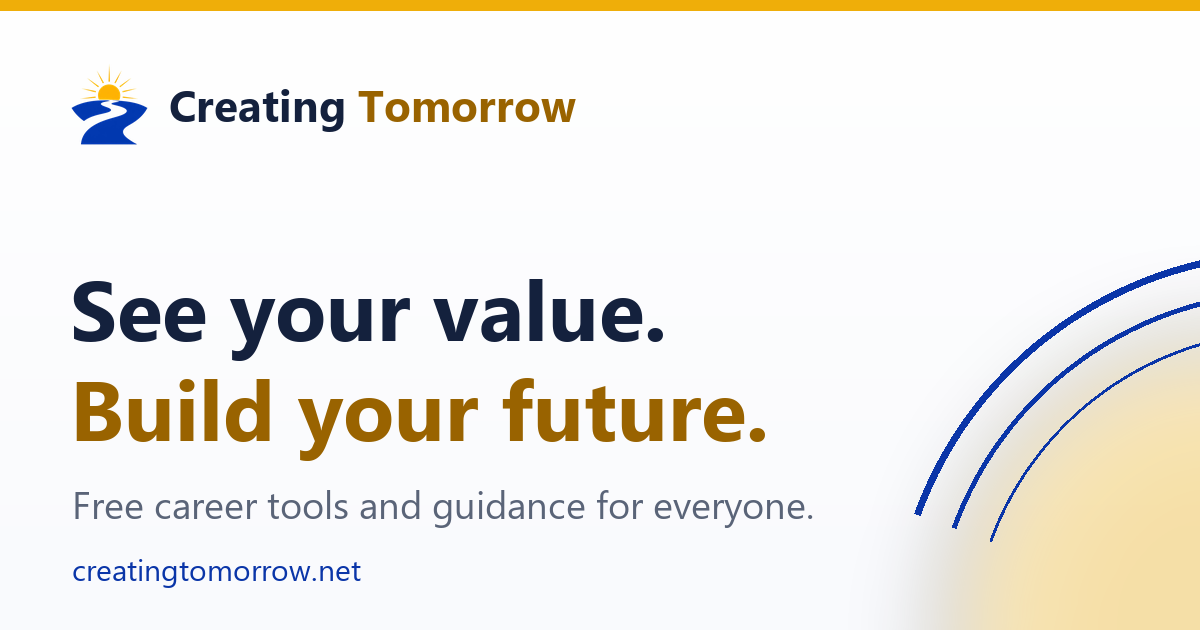
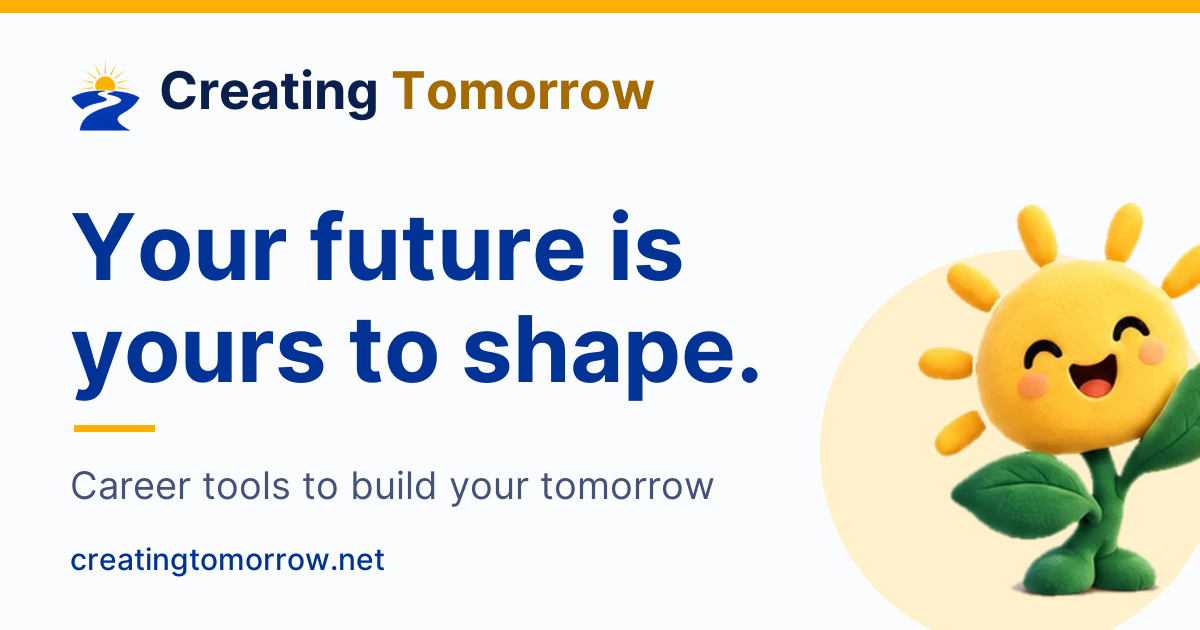
Homepage: trust line, sunflower mascot, hover lift, aligned footer, new share picture
- "Our free tools don't keep your resume or job posting." under the no-cost line (said only about the free tools).
- The Guide sunflower stands at the bottom of the closing band (hidden on phones).
- Cards get a soft shadow on hover and focus; the small lift only when the visitor has not asked for reduced motion.
- Footer uses the same 920px column as the page above.
- Guide titles in normal case like the tool titles; "Start" gets the same arrow as "Read".
- New 1200x630 share picture (og-image.png) with the new headline and the sunflower; matching alt text.

diff --git a/frontend/index.html b/frontend/index.html
@@ -14,7 +14,7 @@
   <meta property="og:image" content="https://creatingtomorrow.net/og-image.png" />
   <meta property="og:image:width" content="1200" />
   <meta property="og:image:height" content="630" />
-  <meta property="og:image:alt" content="Creating Tomorrow: See your value. Build your future." />
+  <meta property="og:image:alt" content="Creating Tomorrow: Your future is yours to shape." />
   <meta name="twitter:card" content="summary_large_image" />
   <meta name="twitter:title" content="Creating Tomorrow — Free Career Tools &amp; Guidance" />
   <meta name="twitter:description" content="Free career tools and practical guidance to help you understand your experience, communicate your value, and take your next step." />
@@ -55,6 +55,7 @@
           <a href="learn.html" aria-haspopup="dialog" class="h7-btn h7-btn-gold" data-learn-open>Learn</a>
         </div>
         <p class="h7-free"><svg viewBox="0 0 24 24" aria-hidden="true"><circle cx="12" cy="12" r="12"/><path d="M6.5 12.5l4 4L17.5 9"/></svg><span>No cost. No barriers.</span></p>
+        <p class="h7-trust"><svg viewBox="0 0 24 24" aria-hidden="true"><rect x="5" y="11" width="14" height="9" rx="2"/><path d="M8 11V8a4 4 0 0 1 8 0v3"/></svg><span>Our free tools don’t keep your resume or job posting.</span></p>
       </div>
       <div class="h7-hero-photo">
         <img src="img/home/hero-graduate-placeholder.jpg" alt="A graduate in a blue cap and gown, seen from behind, looking toward a sunlit campus" width="826" height="616" />
@@ -107,42 +108,42 @@
             <span class="h7-img h7-img-blue" aria-hidden="true"><img src="img/home/tool-create.svg" alt="" width="400" height="150" /></span>
             <span class="h7-tool-row">
               <span class="h7-tool-body"><b class="h7-title">Create</b><span class="h7-text">Create your first resume</span></span>
-              <span class="h7-link">Start</span>
+              <span class="h7-link">Start <span aria-hidden="true">→</span></span>
             </span>
           </a>
           <a class="h7-tool" href="tool.html?mode=refine" aria-label="Improve: Optimize for screening. Start this tool.">
             <span class="h7-img h7-img-gold" aria-hidden="true"><img src="img/home/tool-improve.svg" alt="" width="400" height="150" /></span>
             <span class="h7-tool-row">
               <span class="h7-tool-body"><b class="h7-title">Improve</b><span class="h7-text">Optimize for screening</span></span>
-              <span class="h7-link">Start</span>
+              <span class="h7-link">Start <span aria-hidden="true">→</span></span>
             </span>
           </a>
           <a class="h7-tool" href="tool.html?mode=analyze" aria-label="Match: Check your fit. Start this tool.">
             <span class="h7-img h7-img-green" aria-hidden="true"><img src="img/home/tool-match.svg" alt="" width="400" height="150" /></span>
             <span class="h7-tool-row">
               <span class="h7-tool-body"><b class="h7-title">Match</b><span class="h7-text">Check your fit</span></span>
-              <span class="h7-link">Start</span>
+              <span class="h7-link">Start <span aria-hidden="true">→</span></span>
             </span>
           </a>
           <a class="h7-tool" href="elevate.html" aria-label="Discover: Find hidden experiences. Start this tool.">
             <span class="h7-img h7-img-blue" aria-hidden="true"><img src="img/home/tool-discover.svg" alt="" width="400" height="150" /></span>
             <span class="h7-tool-row">
               <span class="h7-tool-body"><b class="h7-title">Discover</b><span class="h7-text">Find hidden experiences</span></span>
-              <span class="h7-link">Start</span>
+              <span class="h7-link">Start <span aria-hidden="true">→</span></span>
             </span>
           </a>
           <a class="h7-tool" href="spotlight.html" aria-label="LinkedIn: Showcase your strengths. Start this tool.">
             <span class="h7-img h7-img-gold" aria-hidden="true"><img src="img/home/tool-linkedin.svg" alt="" width="400" height="150" /></span>
             <span class="h7-tool-row">
               <span class="h7-tool-body"><b class="h7-title">LinkedIn</b><span class="h7-text">Showcase your strengths</span></span>
-              <span class="h7-link">Start</span>
+              <span class="h7-link">Start <span aria-hidden="true">→</span></span>
             </span>
           </a>
           <a class="h7-tool" href="prepare.html" aria-label="Interview: Master interview stories. Start this tool.">
             <span class="h7-img h7-img-green" aria-hidden="true"><img src="img/home/tool-interview.svg" alt="" width="400" height="150" /></span>
             <span class="h7-tool-row">
               <span class="h7-tool-body"><b class="h7-title">Interview</b><span class="h7-text">Master interview stories</span></span>
-              <span class="h7-link">Start</span>
+              <span class="h7-link">Start <span aria-hidden="true">→</span></span>
             </span>
           </a>
       </div>
@@ -152,6 +153,7 @@
       <h2 id="close-h">We don’t invent your value. We help you see it.</h2>
       <p>Real tools. Real support. A brighter tomorrow is possible.</p>
       <a href="tool.html" class="h7-btn h7-btn-gold">Get Started Today <span aria-hidden="true">→</span></a>
+      <img class="h7-mascot" src="mascot-welcome.png" alt="" width="245" height="291" />
     </section>
   </main>
 

diff --git a/backend/tests/frontend/home.test.js b/backend/tests/frontend/home.test.js
@@ -176,7 +176,7 @@ test("six tool cards link to the same places the Guide recommends, with the shor
   const tileHrefs = [...html.matchAll(/<a class="h7-tool" href="([^"]+)"/g)].map((m) => m[1]).sort();
   assert.strictEqual(tileHrefs.length, 6);
   assert.deepStrictEqual(tileHrefs, guideHrefs);
-  const cards = [...html.matchAll(/<b class="h7-title">([^<]+)<\/b><span class="h7-text">([^<]+)<\/span><\/span>\s*<span class="h7-link">Start<\/span>/g)].map((m) => [m[1], m[2]]);
+  const cards = [...html.matchAll(/<b class="h7-title">([^<]+)<\/b><span class="h7-text">([^<]+)<\/span><\/span>\s*<span class="h7-link">Start <span aria-hidden="true">→<\/span><\/span>/g)].map((m) => [m[1], m[2]]);
   assert.deepStrictEqual(cards, [["Create", "Create your first resume"], ["Improve", "Optimize for screening"], ["Match", "Check your fit"], ["Discover", "Find hidden experiences"], ["LinkedIn", "Showcase your strengths"], ["Interview", "Master interview stories"]]);
   assert.strictEqual((html.match(/class="h7-img h7-img-(blue|gold|green)" aria-hidden="true"/g) || []).length, 10, "an image box on every guide and tool card");
 });
@@ -227,12 +227,14 @@ test("the new look's colours: royal blue and amber gold, and every text pairing 
   assert.ok(!/gradient\(/.test(css7), "no gradients");
 });
 
-test("responsive: the hero stacks, the cards go 2-up then 1-up, and the new look adds no motion", () => {
+test("responsive: the hero stacks, the cards go 2-up then 1-up, and motion is limited to people who have not asked for less", () => {
   assert.match(css7, /@media \(max-width: 1000px\)[\s\S]*\.h7-hero \{ grid-template-columns: 1fr/);
   assert.match(css7, /@media \(max-width: 1000px\)[\s\S]*\.h7-guides \{ grid-template-columns: repeat\(2, 1fr\)/);
   assert.match(css7, /@media \(max-width: 1000px\)[\s\S]*\.h7-tools \{ grid-template-columns: repeat\(2, 1fr\)/);
   assert.match(css7, /@media \(max-width: 620px\)[\s\S]*\.h7-guides, \.h7-tools \{ grid-template-columns: 1fr/);
-  assert.ok(!/animation|transition/.test(css7), "no animation");
+  assert.ok(!/animation/.test(css7), "no animation");
+  const outsideMotionQuery = css7.replace(/@media \(prefers-reduced-motion: no-preference\) \{[\s\S]*?\r?\n\}/, "");
+  assert.ok(!/transition|(?<!-)transform\s*:/.test(outsideMotionQuery), "movement lives only inside the no-preference media query");
 });
 
 test("accessibility: every tool card has a full spoken name, and the two popup buttons announce that they open a dialog", () => {
@@ -278,4 +280,21 @@ test("copy and layout polish: card images keep the drawing's shape at every widt
   const texts = [...html.matchAll(/<span class="h7-text">([^<]+)<\/span>/g)].map((m) => m[1]);
   assert.strictEqual(texts.length, 10);
   for (const x of texts) assert.ok(!/[.!?]$/.test(x) && /^[A-Z][a-z]/.test(x), `"${x}": starts with a capital, no ending period`);
+});
+
+test("the trust line, the sunflower mascot, hover lift, an aligned footer, normal-case titles and the arrow on Start", () => {
+  assert.match(html, /<p class="h7-trust"><svg[^>]*aria-hidden="true">[\s\S]*?<\/svg><span>Our free tools don’t keep your resume or job posting\.<\/span><\/p>/);
+  assert.ok(html.indexOf("h7-free") < html.indexOf("h7-trust"), "the trust line sits under the no-cost line");
+  assert.match(html, /<img class="h7-mascot" src="mascot-welcome\.png" alt="" width="245" height="291" \/>/);
+  assert.ok(fs.existsSync(path.join(FRONTEND, "mascot-welcome.png")));
+  assert.ok(html.indexOf('class="h7-mascot"') > html.indexOf('class="h7-closing"') && html.indexOf('class="h7-mascot"') < html.indexOf("</main>"), "the mascot stands at the bottom of the closing band");
+  assert.match(css7, /\.h7-mascot \{[^}]*bottom: 0/);
+  assert.match(css7, /@media \(max-width: 620px\)[\s\S]*\.h7-mascot \{ display: none; \}/, "the mascot steps aside on a phone");
+  assert.match(css7, /\.h7-tool:hover \.h7-img[^{]*\{ box-shadow: [^}]*\}/);
+  assert.match(css7, /prefers-reduced-motion: no-preference\) \{[\s\S]*translateY\(-3px\)/);
+  assert.match(css7, /body\.home-v7 \.h5-footer \.h5-wrap \{ max-width: 920px/);
+  assert.ok(!/\.h7-guide \.h7-title \{[^}]*uppercase/.test(css7), "guide titles are normal case like the tool titles");
+  assert.match(html, /og:image:alt" content="Creating Tomorrow: Your future is yours to shape\."/);
+  const og = fs.readFileSync(path.join(FRONTEND, "og-image.png"));
+  assert.strictEqual(og.readUInt32BE(16), 1200); assert.strictEqual(og.readUInt32BE(20), 630); // PNG header: 1200 x 630
 });

diff --git a/frontend/home-v7.css b/frontend/home-v7.css
@@ -64,6 +64,8 @@ body.home-v7 main { max-width: none; margin: 0; padding: 0; }
 .h7-free { display: flex; align-items: center; gap: 0.6rem; margin: 1.25rem 0 0; font-size: 0.6875rem; font-weight: 500; color: var(--ink); }
 .h7-free svg { width: 24px; height: 24px; flex: none; }
 .h7-free circle { fill: var(--green); }
+.h7-trust { display: flex; align-items: center; gap: 0.6rem; margin: 0.75rem 0 0; font-size: 0.6875rem; color: var(--muted); }
+.h7-trust svg { width: 24px; height: 24px; flex: none; padding: 4px; fill: none; stroke: var(--royal); stroke-width: 2; stroke-linecap: round; stroke-linejoin: round; }
 .h7-free path { fill: none; stroke: #ffffff; stroke-width: 3; stroke-linecap: round; stroke-linejoin: round; }
 
 /* the photo sits between a royal block (top left) and an amber block (bottom right), both flat */
@@ -79,6 +81,13 @@ body.home-v7 main { max-width: none; margin: 0; padding: 0; }
 .h7-statement blockquote::before, .h7-statement blockquote::after { content: ""; flex: 1; height: 1px; background: #f1d68a; }
 .h7-statement p { margin: 0; text-align: center; font-size: 0.6875rem; font-style: italic; line-height: 1.4; color: var(--muted); }
 .h7-statement figcaption { position: absolute; width: 1px; height: 1px; overflow: hidden; clip: rect(0 0 0 0); white-space: nowrap; }
+
+/* ---------- hover and keyboard focus: a soft shadow; the small lift only when the visitor has not asked for less motion ---------- */
+.h7-guide:hover .h7-img, .h7-guide:focus-visible .h7-img, .h7-tool:hover .h7-img, .h7-tool:focus-visible .h7-img { box-shadow: 0 10px 20px rgba(0, 51, 149, 0.18); }
+@media (prefers-reduced-motion: no-preference) {
+  .h7-guide .h7-img, .h7-tool .h7-img { transition: transform 0.18s ease, box-shadow 0.18s ease; }
+  .h7-guide:hover .h7-img, .h7-guide:focus-visible .h7-img, .h7-tool:hover .h7-img, .h7-tool:focus-visible .h7-img { transform: translateY(-3px); }
+}
 
 /* ---------- section headings ---------- */
 .h7-h2 { margin: 0; font-family: inherit; font-size: 1.1875rem; font-weight: 400; line-height: 1.3; color: var(--royal); }
@@ -97,7 +106,6 @@ body.home-v7 main { max-width: none; margin: 0; padding: 0; }
 .h7-guides { display: grid; grid-template-columns: repeat(4, 1fr); column-gap: 2.2rem; }
 .h7-guide { position: relative; display: flex; flex-direction: column; text-align: left; text-decoration: none; color: inherit; }
 .h7-guide + .h7-guide::before { content: ""; position: absolute; top: 0; bottom: 0; left: -1.1rem; width: 1.5px; background: var(--amber); }
-.h7-guide .h7-title { text-transform: uppercase; letter-spacing: 0.03em; }
 .h7-guide .h7-link { margin-top: auto; padding-top: 0.75rem; }
 
 .h7-tools { display: grid; grid-template-columns: repeat(3, 1fr); gap: 2rem 1.75rem; }
@@ -108,11 +116,15 @@ body.home-v7 main { max-width: none; margin: 0; padding: 0; }
 .h7-tool .h7-title { margin: 0 0 0.25rem; }
 
 /* ---------- closing ---------- */
-.h7-closing { padding: 2.5rem 1.5rem; background: var(--royal); color: #ffffff; text-align: center; }
+.h7-closing { position: relative; overflow: hidden; padding: 2.5rem 1.5rem; background: var(--royal); color: #ffffff; text-align: center; }
 .h7-closing h2 { margin: 0; font-family: inherit; font-size: 1.1875rem; font-weight: 500; line-height: 1.3; color: #ffffff; }
 .h7-closing p { margin: 0.5rem 0 1.25rem; font-size: 0.6875rem; color: #ffffff; }
 .h7-closing .h7-btn { display: inline-flex; padding: 0 1.75rem; }
 .h7-closing a:focus-visible { outline-color: #ffffff; }
+.h7-mascot { position: absolute; right: max(1.5rem, calc((100% - 920px) / 2 + 1.5rem)); bottom: 0; width: auto; height: 8.5rem; }
+
+/* ---------- footer: the same narrow column as the page above ---------- */
+body.home-v7 .h5-footer .h5-wrap { max-width: 920px; padding-left: 3rem; padding-right: 3rem; }
 
 /* ---------- popups (the shared Guide popup, plus the Learning popup) ---------- */
 .learn-option { display: flex; flex-direction: column; gap: 0.2rem; text-align: left; text-decoration: none; }
@@ -136,6 +148,8 @@ body.home-v7 main { max-width: none; margin: 0; padding: 0; }
   .h7-wrap { padding-left: 1.1rem; padding-right: 1.1rem; }
   .h7-hero-photo { margin-right: 1rem; }
   .h7-cta { grid-template-columns: 1fr 1fr; }
+  .h7-mascot { display: none; }
+  body.home-v7 .h5-footer .h5-wrap { padding-left: 1.1rem; padding-right: 1.1rem; }
   .h7-guides, .h7-tools { grid-template-columns: 1fr; }
   .h7-closing .h7-btn { display: flex; width: 100%; }
 }
